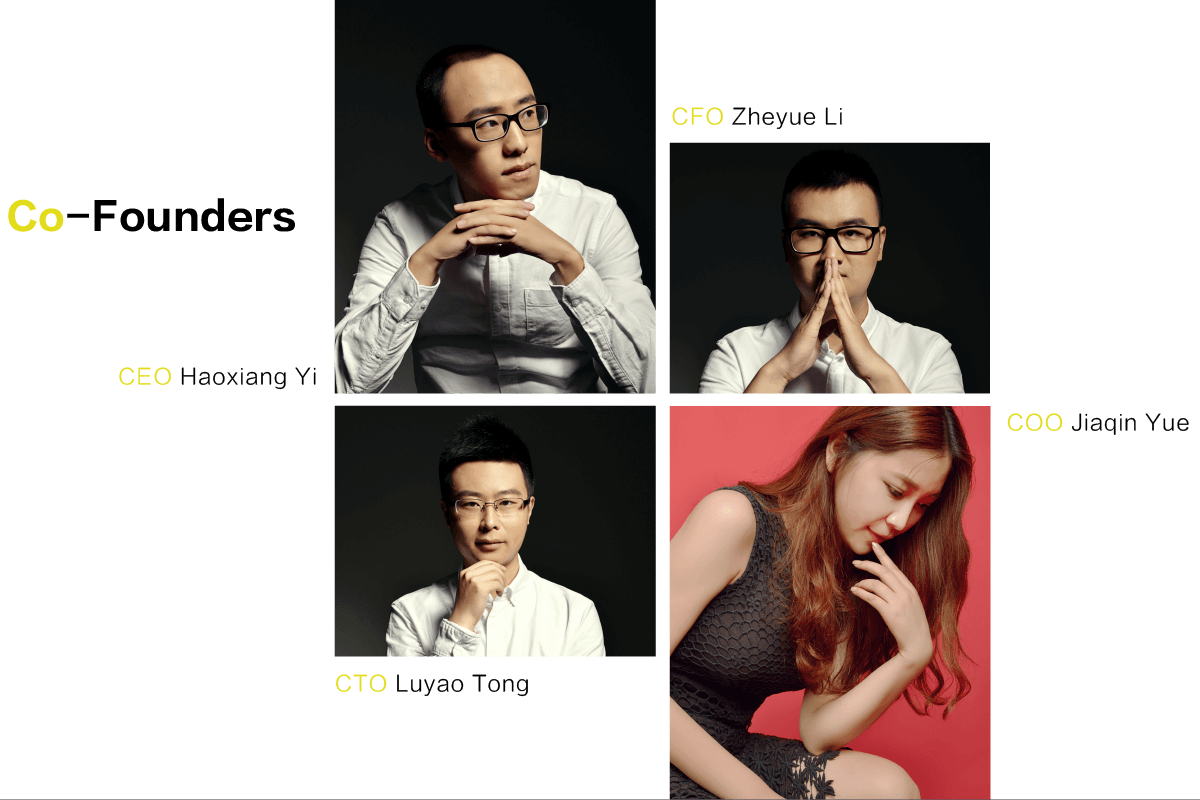
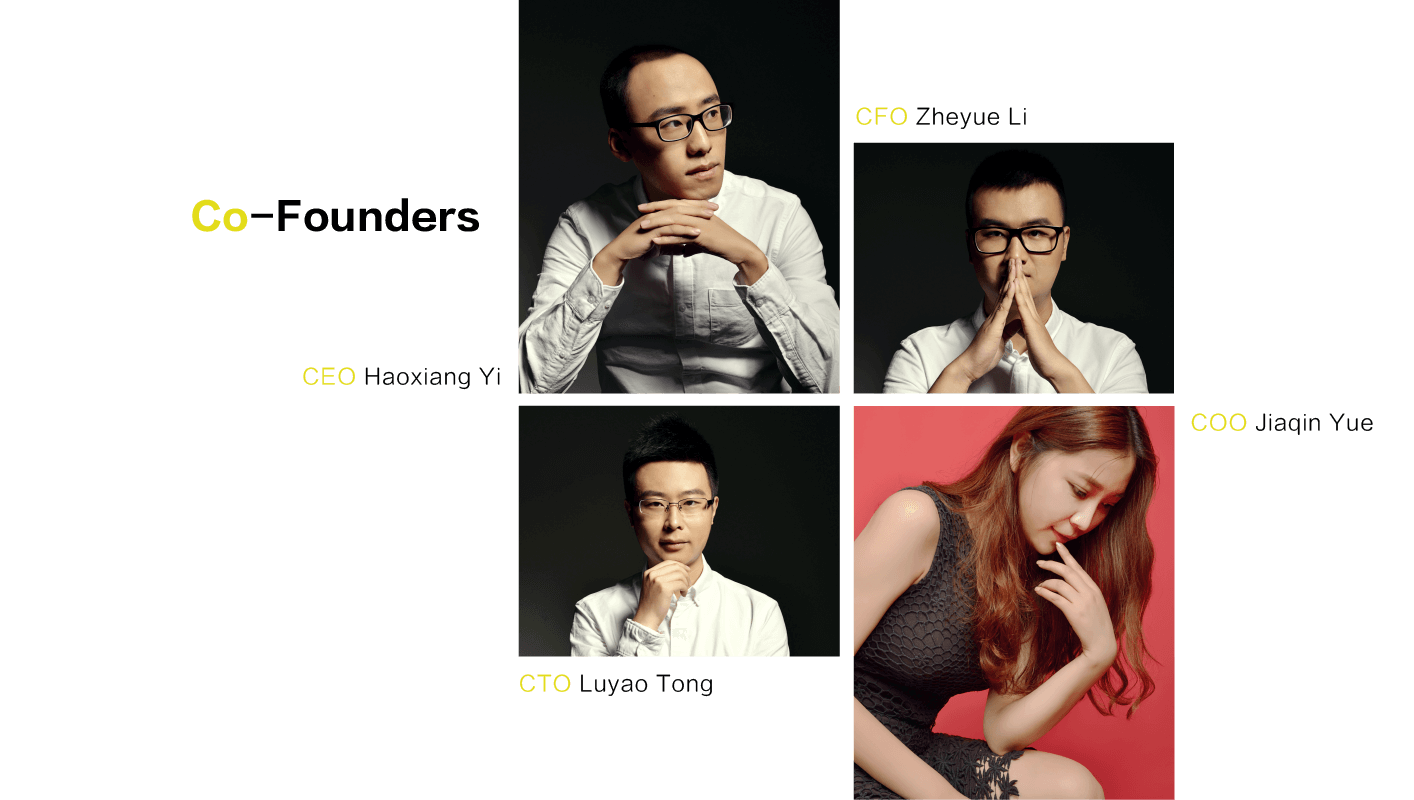
关于页手机适配

diff --git a/static/js/main.js b/static/js/main.js
@@ -8217,11 +8217,11 @@ var app = new _vue2.default(_vue2.default.util.extend({
 app.$mount('#app');
 
 },{"./App.vue":6,"./router":12,"vue":4}],8:[function(require,module,exports){
-var __vueify_style_dispose__ = require("vueify/lib/insert-css").insert(".text-highlight {\n  color: #DDD600;\n}\n.text-highlight.reverse {\n  color: #000011;\n  background-color: #DDD600;\n}\n.black {\n  background-color: #3B363C;\n}\n.f-title {\n  font-size: 24px;\n  font-weight: bold;\n}\n.f-desc {\n  font-size: 15px;\n}\n.f-sign {\n  font-size: 16px;\n}\n.left {\n  float: left;\n}\n.pull-right {\n  float: right;\n}\n.clear-fix {\n  overflow: auto;\n  zoom: 1;\n}\n.relative {\n  position: relative;\n}\n.absolute {\n  position: absolute;\n}\n.gap {\n  height: 1px;\n}\n@media only screen and (min-width: 1200px) {\n  .pc {\n    display: block;\n  }\n  .pad {\n    display: none;\n  }\n  .mobile {\n    display: none;\n  }\n}\n@media only screen and (min-width: 1024px) and (max-width: 1200px) {\n  .pc {\n    display: block;\n  }\n  .pad {\n    display: none;\n  }\n  .mobile {\n    display: none;\n  }\n  .pc-pad {\n    display: block;\n  }\n}\n@media only screen and (min-width: 768px) and (max-width: 1024px) {\n  .pc {\n    display: none;\n  }\n  .pad {\n    display: block;\n  }\n  .mobile {\n    display: none;\n  }\n  .pc-pad {\n    display: block;\n  }\n}\n@media only screen and (max-width: 768px) {\n  .pc {\n    display: none;\n  }\n  .pad {\n    display: none;\n  }\n  .mobile {\n    display: block;\n  }\n  .pc-pad {\n    display: none;\n  }\n  .f-title {\n    font-size: 16px;\n  }\n  .f-sign {\n    font-size: 13px;\n  }\n  .f-desc {\n    font-size: 13px;\n  }\n}\n.about .as {\n  height: 800px;\n}\n.about .inner {\n  position: relative;\n  max-width: 1200px;\n  margin: 0 auto;\n}\n.about .as-1 {\n  background-image: url(static/assets/about-bg-1.png);\n  background-repeat: no-repeat;\n  background-size: cover;\n}\n.about .as-1 .content {\n  color: white;\n  font-size: 16px;\n  text-align: left;\n  margin-top: 180px;\n  padding-left: 600px;\n  line-height: 24px;\n}\n.about .as-1 .image {\n  position: absolute;\n  left: 0;\n  top: 0px;\n}\n.about .as-2 {\n  background-image: url(static/assets/about-bg-2.png);\n  background-repeat: no-repeat;\n  background-size: cover;\n}\n.about .as-3 {\n  height: 300px;\n  text-align: left;\n  color: white;\n}\n.about .as-3 .content {\n  padding: 40px 100px;\n}\n.about .as-3 .title {\n  font-size: 32px;\n}\n.about .as-3 .detail {\n  font-size: 16px;\n}\n.about .as-3 .flag {\n  position: absolute;\n  left: 0;\n  top: 0;\n}")
+var __vueify_style_dispose__ = require("vueify/lib/insert-css").insert(".text-highlight {\n  color: #DDD600;\n}\n.text-highlight.reverse {\n  color: #000011;\n  background-color: #DDD600;\n}\n.black {\n  background-color: #3B363C;\n}\n.f-title {\n  font-size: 24px;\n  font-weight: bold;\n}\n.f-desc {\n  font-size: 15px;\n}\n.f-sign {\n  font-size: 16px;\n}\n.left {\n  float: left;\n}\n.pull-right {\n  float: right;\n}\n.clear-fix {\n  overflow: auto;\n  zoom: 1;\n}\n.relative {\n  position: relative;\n}\n.absolute {\n  position: absolute;\n}\n.gap {\n  height: 1px;\n}\n@media only screen and (min-width: 1200px) {\n  .pc {\n    display: block;\n  }\n  .pad {\n    display: none;\n  }\n  .mobile {\n    display: none;\n  }\n}\n@media only screen and (min-width: 1024px) and (max-width: 1200px) {\n  .pc {\n    display: block;\n  }\n  .pad {\n    display: none;\n  }\n  .mobile {\n    display: none;\n  }\n  .pc-pad {\n    display: block;\n  }\n}\n@media only screen and (min-width: 768px) and (max-width: 1024px) {\n  .pc {\n    display: none;\n  }\n  .pad {\n    display: block;\n  }\n  .mobile {\n    display: none;\n  }\n  .pc-pad {\n    display: block;\n  }\n}\n@media only screen and (max-width: 768px) {\n  .pc {\n    display: none;\n  }\n  .pad {\n    display: none;\n  }\n  .mobile {\n    display: block;\n  }\n  .pc-pad {\n    display: none;\n  }\n  .f-title {\n    font-size: 16px;\n  }\n  .f-sign {\n    font-size: 13px;\n  }\n  .f-desc {\n    font-size: 13px;\n  }\n}\n.about .as {\n  height: 800px;\n}\n.about .inner {\n  position: relative;\n  max-width: 1200px;\n  margin: 0 auto;\n}\n.about .as-1 {\n  background-image: url(static/assets/about-bg-1.png);\n  background-repeat: no-repeat;\n  background-size: cover;\n}\n.about .as-1 .content {\n  color: white;\n  font-size: 16px;\n  text-align: left;\n  margin-top: 180px;\n  padding-left: 600px;\n  line-height: 24px;\n}\n.about .as-1 .image {\n  position: absolute;\n  left: 0;\n  top: 0px;\n}\n.about .as-2 {\n  background-image: url(static/assets/about-bg-2.png);\n  background-repeat: no-repeat;\n  background-size: cover;\n}\n.about .as-2 .image img {\n  max-width: 100%;\n}\n.about .as-3 {\n  height: 300px;\n  text-align: left;\n  color: white;\n}\n.about .as-3 .content {\n  padding: 40px 100px;\n}\n.about .as-3 .title {\n  font-size: 32px;\n}\n.about .as-3 .detail {\n  font-size: 16px;\n}\n.about .as-3 .flag {\n  position: absolute;\n  left: 0;\n  top: 0;\n}\n@media only screen and (max-width: 768px) {\n  .about .as-1 {\n    height: auto;\n  }\n  .about .as-1 .image {\n    position: static;\n    margin-top: 100px;\n  }\n  .about .as-1 .content {\n    margin-top: 100px;\n    padding: 0 20px;\n    font-size: 12px;\n    line-height: 1.4;\n  }\n  .about .as-2 {\n    background: none;\n    height: auto;\n    padding: 20px 0;\n  }\n  .about .as-2 .image {\n    margin-top: 40px;\n    padding: 20px;\n  }\n  .about .as-3 {\n    background: white;\n  }\n  .about .as-3 .content {\n    padding: 20px 0;\n    padding-left: 30px;\n    padding-right: 10px;\n  }\n  .about .as-3 .title {\n    color: #000011;\n    font-size: 20px;\n  }\n  .about .as-3 .detail {\n    font-size: 12px;\n    color: #000011;\n    line-height: 1.6;\n  }\n  .about .as-3 .detail .text-highlight {\n    color: #777;\n  }\n  .about .as-3 .flag {\n    left: 10px;\n  }\n  .about .as-3 .flag img {\n    width: 20px;\n  }\n}")
 var __vue__options__ = (typeof module.exports === "function"? module.exports.options: module.exports)
 if (__vue__options__.functional) {console.error("[vueify] functional components are not supported and should be defined in plain js files using render functions.")}
 __vue__options__.render = function render () {var _vm=this;return _vm._m(0)}
-__vue__options__.staticRenderFns = [function render () {var _vm=this;return _vm._h('section',{staticClass:"about"},[_vm._h('section',{staticClass:"as as-1"},[_vm._h('div',{staticClass:"gap black"})," ",_vm._h('div',{staticClass:"inner"},[_vm._h('div',{staticClass:"image"},[_vm._h('img',{attrs:{"src":"static/assets/about-members.png"}})])," ",_vm._h('div',{staticClass:"content"},[_vm._h('div',{staticClass:"description"},[_vm._h('p',["\n                        We’re the Entertech team,\n                        and we focus on developing high-tech wearables for health,\n                        leading the way with dry EEG acquisition and ECG acquisition technology.\n                        We’ve been a member of Apple’s MFi developers program (Made for iPhone) since 2015.\n                    "])," ",_vm._h('p',["\n                        Our R & D team consists of bioelectric data collection specialists from Zhejiang University,\n                        Hangzhou Dianzi University, University of York, and others.\n                        We cooperate closely with the Zhejiang Tongde Hospital and the College of Biomedical Engineering & Instrument Science at Zhejiang University.\n                    "])," ",_vm._h('p',["\n                        The company obtained millions of investments from angel investors in just four months after set up;\n                        a year later, in July 2015, once again won millions of additional investments from angel investors;\n                        in January 2016, achieved ten million Pre-A round of investment from Zhongguancun Development Center, a well-known investment institution.\n                    "])," ",_vm._h('p',{staticClass:"text-highlight"},["\n                        We believe that sleep and relaxation (and their related health benefits like disease prevention) are important causes,\n                        and we plan to develop even more technologies for accurate health data monitoring after we bring Naptime to market.\n                    "])])])])])," ",_vm._h('section',{staticClass:"as as-2"},[_vm._h('div',{staticClass:"inner"},[_vm._h('div',{staticClass:"image"},[_vm._h('img',{attrs:{"src":"static/assets/about-founders.png"}})])])])," ",_vm._h('section',{staticClass:"as as-3"},[_vm._h('div',{staticClass:"inner"},[_vm._h('div',{staticClass:"content"},[_vm._h('div',{staticClass:"title"},["\n                    Contact Us\n                "])," ",_vm._h('div',{staticClass:"detail"},[_vm._h('p',["\n                        Company: ",_vm._h('span',{staticClass:"text-highlight"},["Hangzhou Enter Electronic Technology Co., Ltd."])])," ",_vm._h('p',["\n                        Address: ",_vm._h('span',{staticClass:"text-highlight"},["Room 407, 4th Floor, Yigao Startups, NO. 29, Huanggushan Road, Xihu District, Hanghzhou, Zhejiang Province, China."])])," ",_vm._h('p',["\n                        Contact Number: ",_vm._h('span',{staticClass:"text-highlight"},["400-600-9870"])])," ",_vm._h('p',["\n                        Email: ",_vm._h('span',{staticClass:"text-highlight"},["business@entertech.cn"])])])])," ",_vm._h('div',{staticClass:"flag"},[_vm._h('img',{attrs:{"src":"static/assets/about-flag.png"}})])])])])}]
+__vue__options__.staticRenderFns = [function render () {var _vm=this;return _vm._h('section',{staticClass:"about"},[_vm._h('section',{staticClass:"as as-1"},[_vm._h('div',{staticClass:"gap black"})," ",_vm._h('div',{staticClass:"inner"},[_vm._h('div',{staticClass:"image pc-pad"},[_vm._h('img',{attrs:{"src":"static/assets/about-members.png"}})])," ",_vm._h('div',{staticClass:"image mobile"},[_vm._h('img',{attrs:{"src":"static/assets/about-members-m.png","width":"100%"}})])," ",_vm._h('div',{staticClass:"content"},[_vm._h('div',{staticClass:"description"},[_vm._h('p',["\n                        We’re the Entertech team,\n                        and we focus on developing high-tech wearables for health,\n                        leading the way with dry EEG acquisition and ECG acquisition technology.\n                        We’ve been a member of Apple’s MFi developers program (Made for iPhone) since 2015.\n                    "])," ",_vm._h('p',["\n                        Our R & D team consists of bioelectric data collection specialists from Zhejiang University,\n                        Hangzhou Dianzi University, University of York, and others.\n                        We cooperate closely with the Zhejiang Tongde Hospital and the College of Biomedical Engineering & Instrument Science at Zhejiang University.\n                    "])," ",_vm._h('p',["\n                        The company obtained millions of investments from angel investors in just four months after set up;\n                        a year later, in July 2015, once again won millions of additional investments from angel investors;\n                        in January 2016, achieved ten million Pre-A round of investment from Zhongguancun Development Center, a well-known investment institution.\n                    "])," ",_vm._h('p',{staticClass:"text-highlight"},["\n                        We believe that sleep and relaxation (and their related health benefits like disease prevention) are important causes,\n                        and we plan to develop even more technologies for accurate health data monitoring after we bring Naptime to market.\n                    "])])])])])," ",_vm._h('section',{staticClass:"as as-2"},[_vm._h('div',{staticClass:"inner"},[_vm._h('div',{staticClass:"image pc-pad"},[_vm._h('img',{attrs:{"src":"static/assets/about-founders.png"}})])," ",_vm._h('div',{staticClass:"flag mobile pull-right"},[_vm._h('img',{attrs:{"src":"static/assets/about-founders-flag-m.png","width":"196"}})])," ",_vm._h('div',{staticClass:"image mobile"},[_vm._h('img',{attrs:{"src":"static/assets/about-founders-m.png","width":"261"}})])])])," ",_vm._h('section',{staticClass:"as as-3"},[_vm._h('div',{staticClass:"inner"},[_vm._h('div',{staticClass:"content"},[_vm._h('div',{staticClass:"title"},["\n                    Contact Us\n                "])," ",_vm._h('div',{staticClass:"detail"},[_vm._h('p',["\n                        Company: ",_vm._h('span',{staticClass:"text-highlight"},["Hangzhou Enter Electronic Technology Co., Ltd."])])," ",_vm._h('p',["\n                        Address: ",_vm._h('span',{staticClass:"text-highlight"},["Room 407, 4th Floor, Yigao Startups, NO. 29, Huanggushan Road, Xihu District, Hanghzhou, Zhejiang Province, China."])])," ",_vm._h('p',["\n                        Contact Number: ",_vm._h('span',{staticClass:"text-highlight"},["400-600-9870"])])," ",_vm._h('p',["\n                        Email: ",_vm._h('span',{staticClass:"text-highlight"},["business@entertech.cn"])])])])," ",_vm._h('div',{staticClass:"flag"},[_vm._h('img',{attrs:{"src":"static/assets/about-flag.png"}})])])])])}]
 if (module.hot) {(function () {  var hotAPI = require("vue-hot-reload-api")
   hotAPI.install(require("vue"), true)
   if (!hotAPI.compatible) return

diff --git a/src/pages/About.vue b/src/pages/About.vue
@@ -3,8 +3,11 @@
         <section class="as as-1">
             <div class="gap black"></div>
             <div class="inner">
-                <div class="image">
+                <div class="image pc-pad">
                     <img src="static/assets/about-members.png"/>
+                </div>
+                <div class="image mobile">
+                    <img src="static/assets/about-members-m.png" width="100%"/>
                 </div>
                 <div class="content">
                     <div class="description">
@@ -34,8 +37,14 @@
         </section>
         <section class="as as-2">
             <div class="inner">
-                <div class="image">
+                <div class="image pc-pad">
                     <img src="static/assets/about-founders.png" />
+                </div>
+                <div class="flag mobile pull-right">
+                    <img src="static/assets/about-founders-flag-m.png" width="196"/>
+                </div>
+                <div class="image mobile">
+                    <img src="static/assets/about-founders-m.png" width="261"/>
                 </div>
             </div>
         </section>
@@ -103,7 +112,11 @@
         background-image: url(static/assets/about-bg-2.png);
         background-repeat: no-repeat;
         background-size: cover;
-
+        .image {
+            img {
+                max-width: 100%;
+            }
+        }
     }
     .as-3 {
         height: 300px;
@@ -145,6 +158,55 @@
 
 // 手机
 @media only screen and (max-width: @screen-mobile) {
-
+    .about {
+        .as-1 {
+            height: auto;
+            .image {
+                position: static;
+                margin-top: 100px;
+            }
+            .content {
+                margin-top: 100px;
+                padding: 0 20px;
+                font-size: 12px;
+                line-height: 1.4;
+            }
+        }
+        .as-2 {
+            background: none;
+            height: auto;
+            padding: 20px 0;
+            .image {
+                margin-top: 40px;
+                padding: 20px;
+            }
+        }
+        .as-3 {
+            background: white;
+            .content {
+                padding: 20px 0;
+                padding-left: 30px;
+                padding-right: 10px;
+            }
+            .title {
+                color: @color-text-dark;
+                font-size: 20px;
+            }
+            .detail {
+                font-size: 12px;
+                color: @color-text-dark;
+                line-height: 1.6;
+                .text-highlight {
+                    color: #777;
+                }
+            }
+            .flag {
+                left: 10px;
+                img {
+                    width: 20px;
+                }
+            }
+        }
+    }
 }
 </style>
